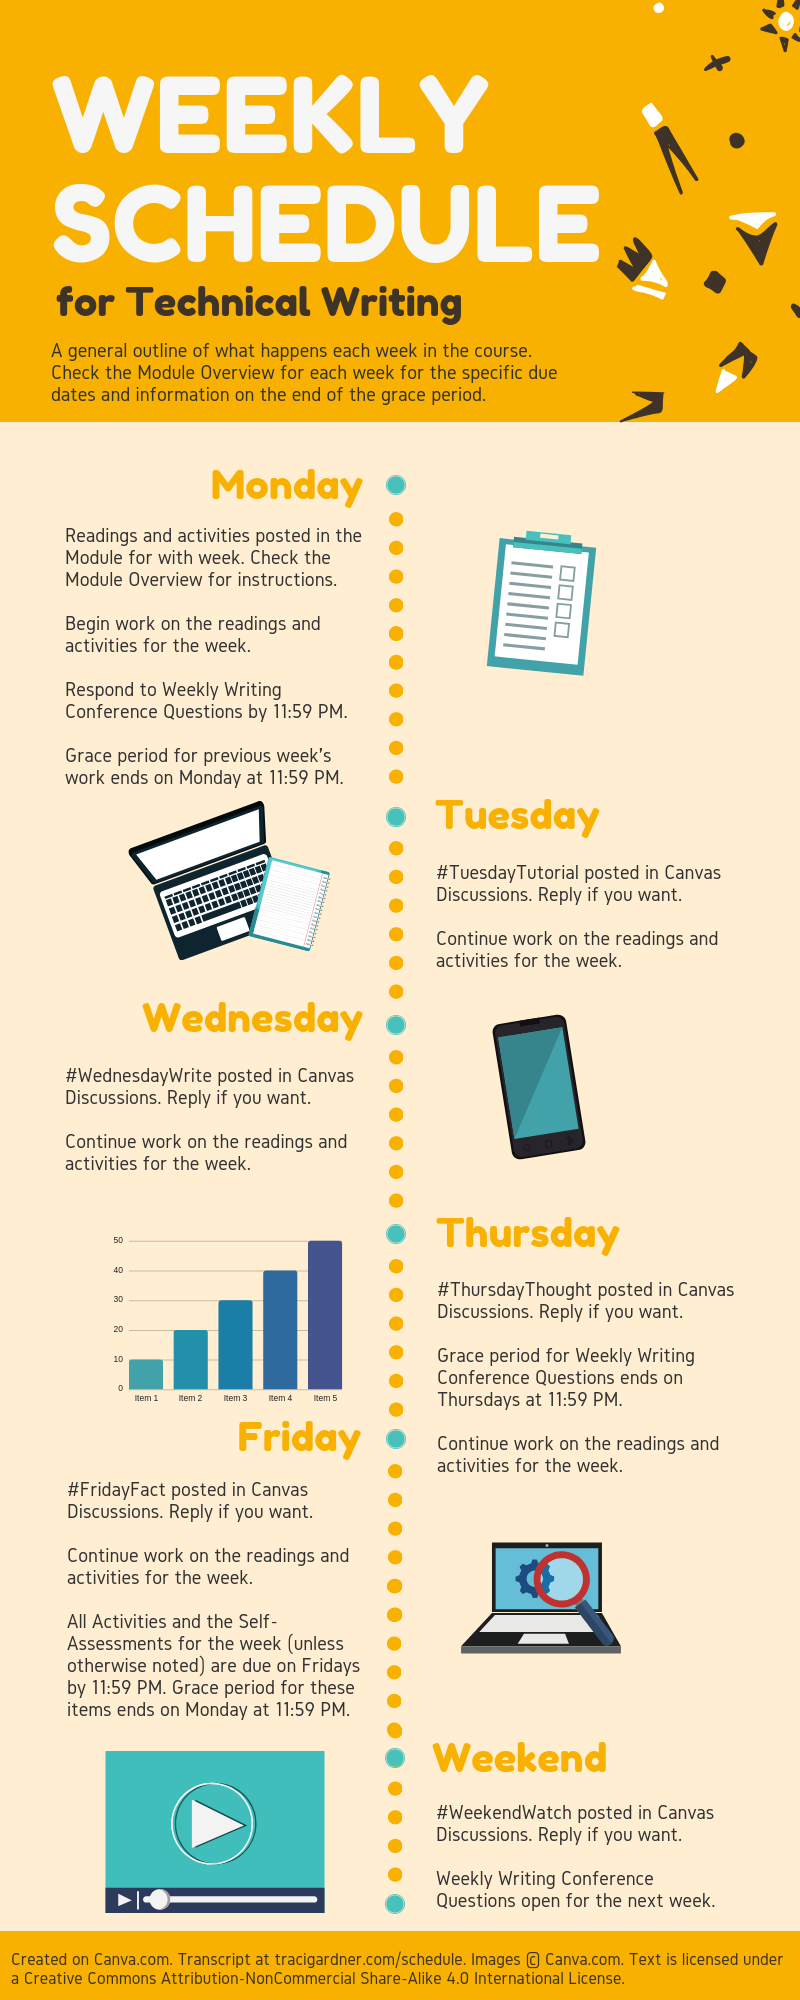
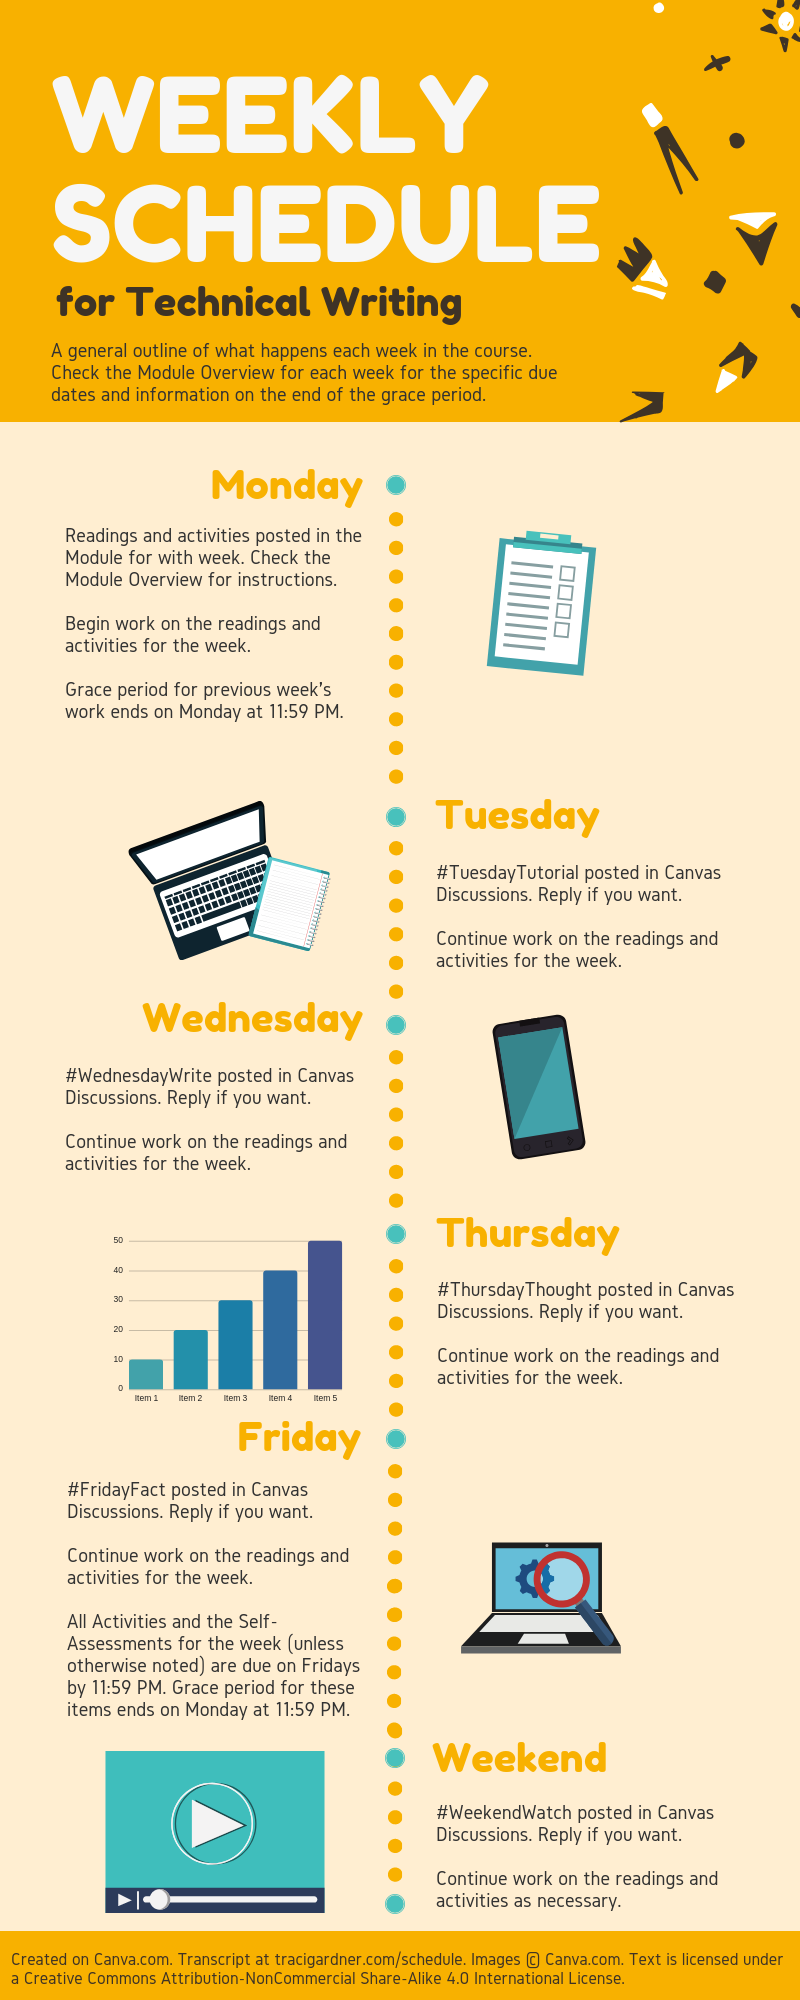
Updates to the weekly schedule page and image

Changed region(s): [[0.5312, 0.651, 0.875, 0.744], [0.0625, 0.341, 0.4375, 0.403], [0.5312, 0.93, 0.9062, 0.961]]

diff --git a/TechComm/technical-howtos/weekly-schedule-in-technical-writing.html b/TechComm/technical-howtos/weekly-schedule-in-technical-writing.html
@@ -62,7 +62,6 @@
 <ul>
 <li style="margin-bottom: 6px;">Readings and activities posted in the Module for with week. Check the Module Overview for instructions.</li>
 <li style="margin-bottom: 6px;">Begin work on the readings and activities for the week.</li>
-<li style="margin-bottom: 6px;">Respond to Weekly Writing Conference Questions by 11:59PM.</li>
 <li style="margin-bottom: 6px;"> Grace period for Final, Finished Draft ends on Mondays at 11:59 PM.</li>
 </ul>
 </td>
@@ -90,7 +89,6 @@
 <td align="left" valign="top">
 <ul>
 <li style="margin-bottom: 6px;">#ThursdayThought posted in Canvas Discussions. Reply if you want.</li>
-<li style="margin-bottom: 6px;"> Grace period for Weekly Writing Conference Questions ends on Thursdays at 11:59 PM.</li>
 <li style="margin-bottom: 6px;">Continue work on the readings and activities for the week.</li>
 </ul>
 </td>
@@ -110,9 +108,7 @@
 <td align="left" valign="top">
 <ul>
 <li style="margin-bottom: 6px;">#WeekendWatch posted in Canvas Discussions. Reply if you want.</li>
-<li style="margin-bottom: 6px;">Weekly Writing Conference Questions open for the next week.</li>
-</ul>
-</td>
+<li style="margin-bottom: 6px;">Continue work on the readings and activities as necessary.</li></ul></td>
 </tr>
 </tbody>
 </table>
